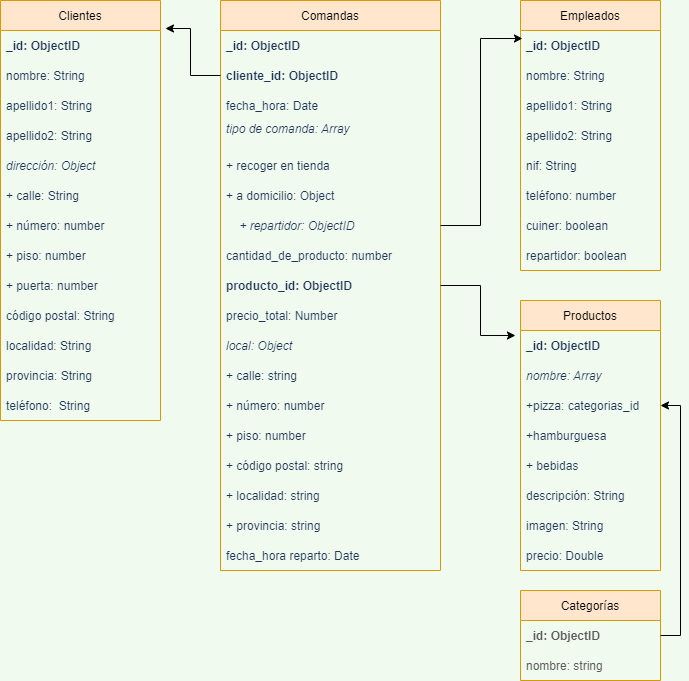
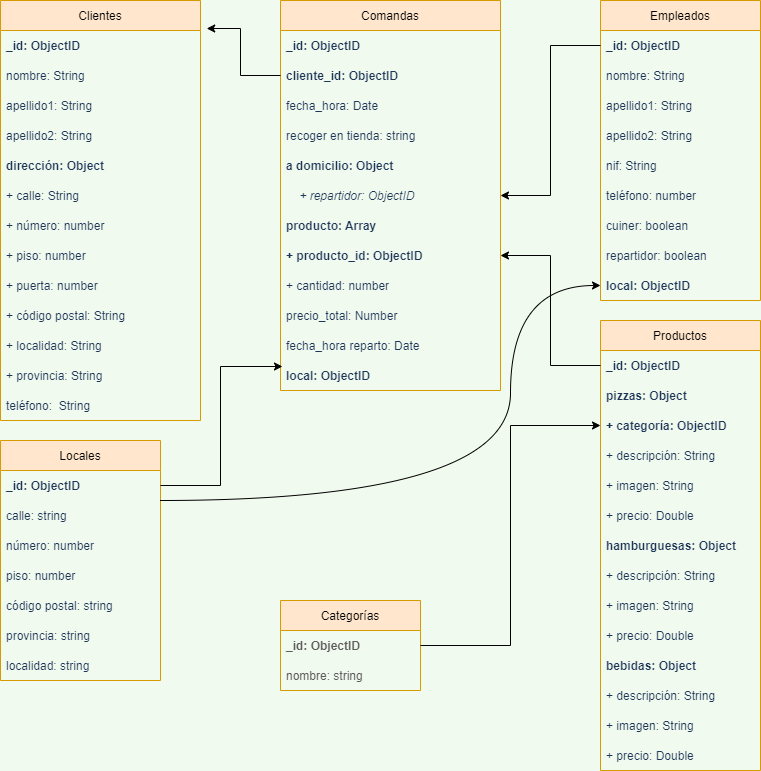
correcciones modelo pizzeria nosql

diff --git a/pizzeria/script_pizzeria.js b/pizzeria/script_pizzeria.js
@@ -4,6 +4,7 @@ db.createCollection ("comandas")
 db.createCollection ("productos")
 db.createCollection ("empleados")
 db.createCollection ("categorias")
+db.createCollection ("locales")
 db.clientes.insert (
     {"nombre": "string", 
      "apellido1": "string",
@@ -12,35 +13,28 @@ db.clientes.insert (
          "calle": "string",
          "numero": "number",
          "piso": "number",
-         "puerta": "string"
+         "puerta": "string",
+         "codigo_postal": "string",
+         "localidad": "string",
+         "provincia": "string",
      },
-     "codigo_postal": "string",
-     "localidad": "string",
-     "provincia": "string",
      "telefono": "string"  
 }   
     )
 
 
 db.comandas.insert (
-    {"fecha_hora": "IsoDate",
-     "tipo_de_comanda": 
-        [{"a_domicilio": 
-            {"repartidor":
-                 "empleados_id"
-            }},
-          "recoger_en_tienda"],
+    {"fecha_hora": "IsoDate", 
+     "a_domicilio": {
+         "repartidor":
+                 "empleados_id"},
+     "recoger_en_tienda": "string",
      "cantidad_de_producto": "number",
-     "producto": "productos_id",
+     "producto": [
+         "productos_id",
+         "cantidad"],
      "precio_total": "number",
-     "local": {
-        "calle": "String",
-        "numero": "number",
-        "piso": "number",
-        "codigo_postal": "string",
-        "localidad": "string",
-        "provincia": "string"
-     },
+     "local": "locales_id",
      "fecha_hora_reparto": "IsoDate" 
     }
 )
@@ -53,21 +47,39 @@ db.empleados.insert ({
     "nif": "string",
     "telefono": "string",
     "cocinero": "boolean",
-    "repartidor": "boolean"
+    "repartidor": "boolean",
+    "local": "locales_id" 
 })
 
 
 db.productos.insert ({
-    "tipo": [{
-        "pizzas": "categorias_id"},
-        "hamburguesas",
-        "bebidas"
-    ],
-    "descripcion": "string",
-    "imagen": "string",
-    "precio": "number"
+    "pizzas": {
+        "categoria": "categorias_id",
+        "descripcion": "string",
+        "imagen": "string",
+        "precio": "number"},
+    "hamburguesas": {
+        "descripcion": "string",
+        "imagen": "string",
+        "precio": "number"},
+    "bebidas": {
+        "descripcion": "string",
+        "imagen": "string",
+        "precio": "number"}
+    
 })
 
 db.categorias.insert ({
     "nombre": "string"
 })
+
+
+db.locales.insert ({
+    "calle": "String",
+    "numero": "number",
+    "piso": "number",
+    "codigo_postal": "string",
+    "localidad": "string",
+    "provincia": "string"
+})
+
